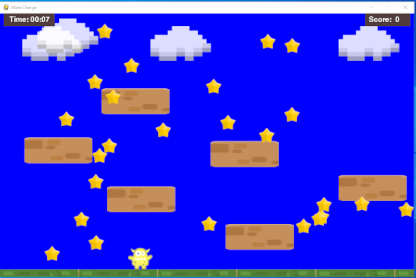
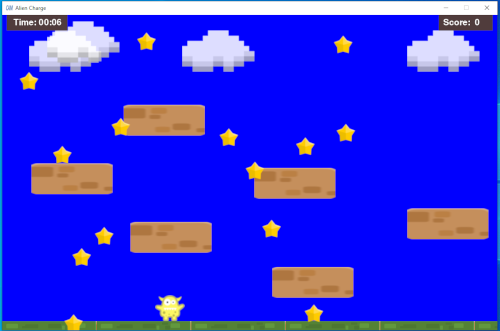
Updates

diff --git a/Platformer/alien_charge.py b/Platformer/alien_charge.py
@@ -226,6 +226,8 @@ def main():
     font = pygame.font.SysFont(None, 28)
 
     pygame.display.set_caption("Alien Charge")
+    programIcon = pygame.image.load('icons/cam_3.png')
+    pygame.display.set_icon(programIcon)
     click_sound = pygame.mixer.Sound('sounds/laser5.ogg')
     clouds = pygame.image.load('images/cloud.png')
     ground = pygame.image.load('images/ground.png')
@@ -252,7 +254,7 @@ def main():
     # List of each block in the game
     block_list = pygame.sprite.Group()
 
-    for i in range(25):
+    for i in range(15):
         # This represents a block
         block = Block()
 
